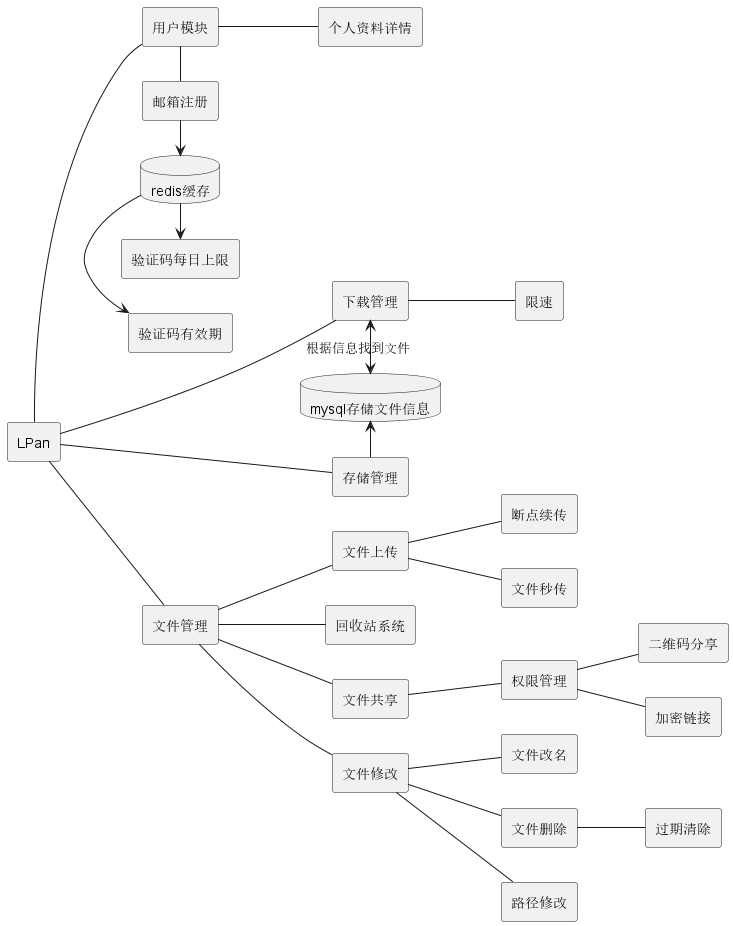
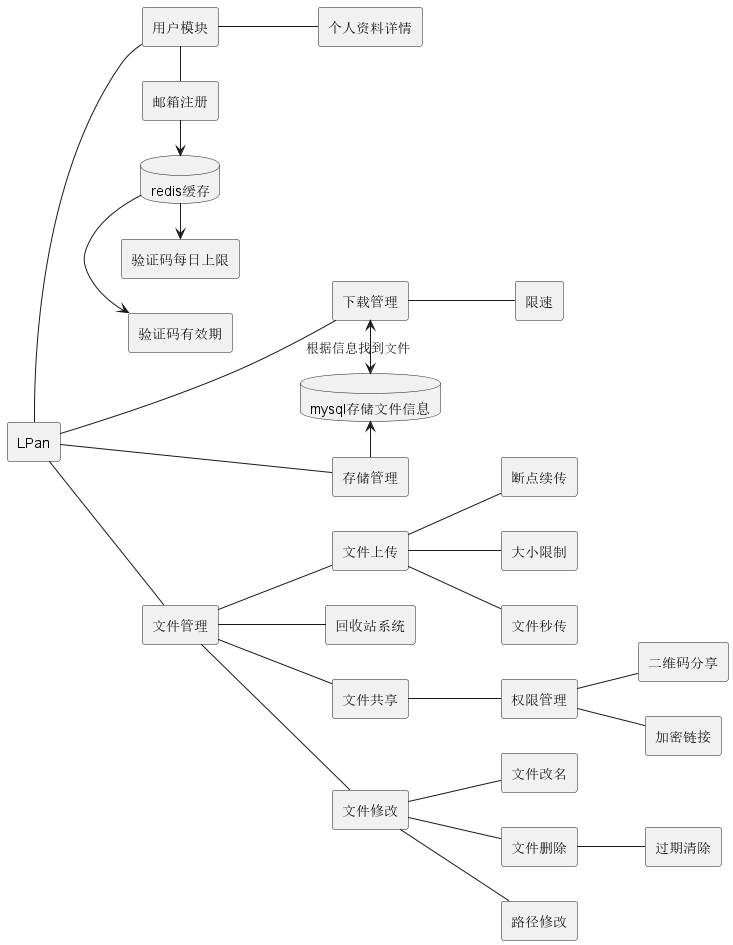
修改架构图 新增大小限制

diff --git a/dao/cron.go b/dao/cron.go
@@ -8,7 +8,7 @@ import (
 func CleanDeletedFile() {
 	c := cron.New()
 	c.AddFunc("@daily", func() {
-		Db.Exec("delete from private where deleted<?", time.Now().Add(time.Hour*24*30))
+		Db.Exec("delete from private where deleted<=? or (share=1 and expr_time <= ?)", time.Now().Add(time.Hour*24*30), time.Now())
 	})
 	c.Start()
 	select {}
